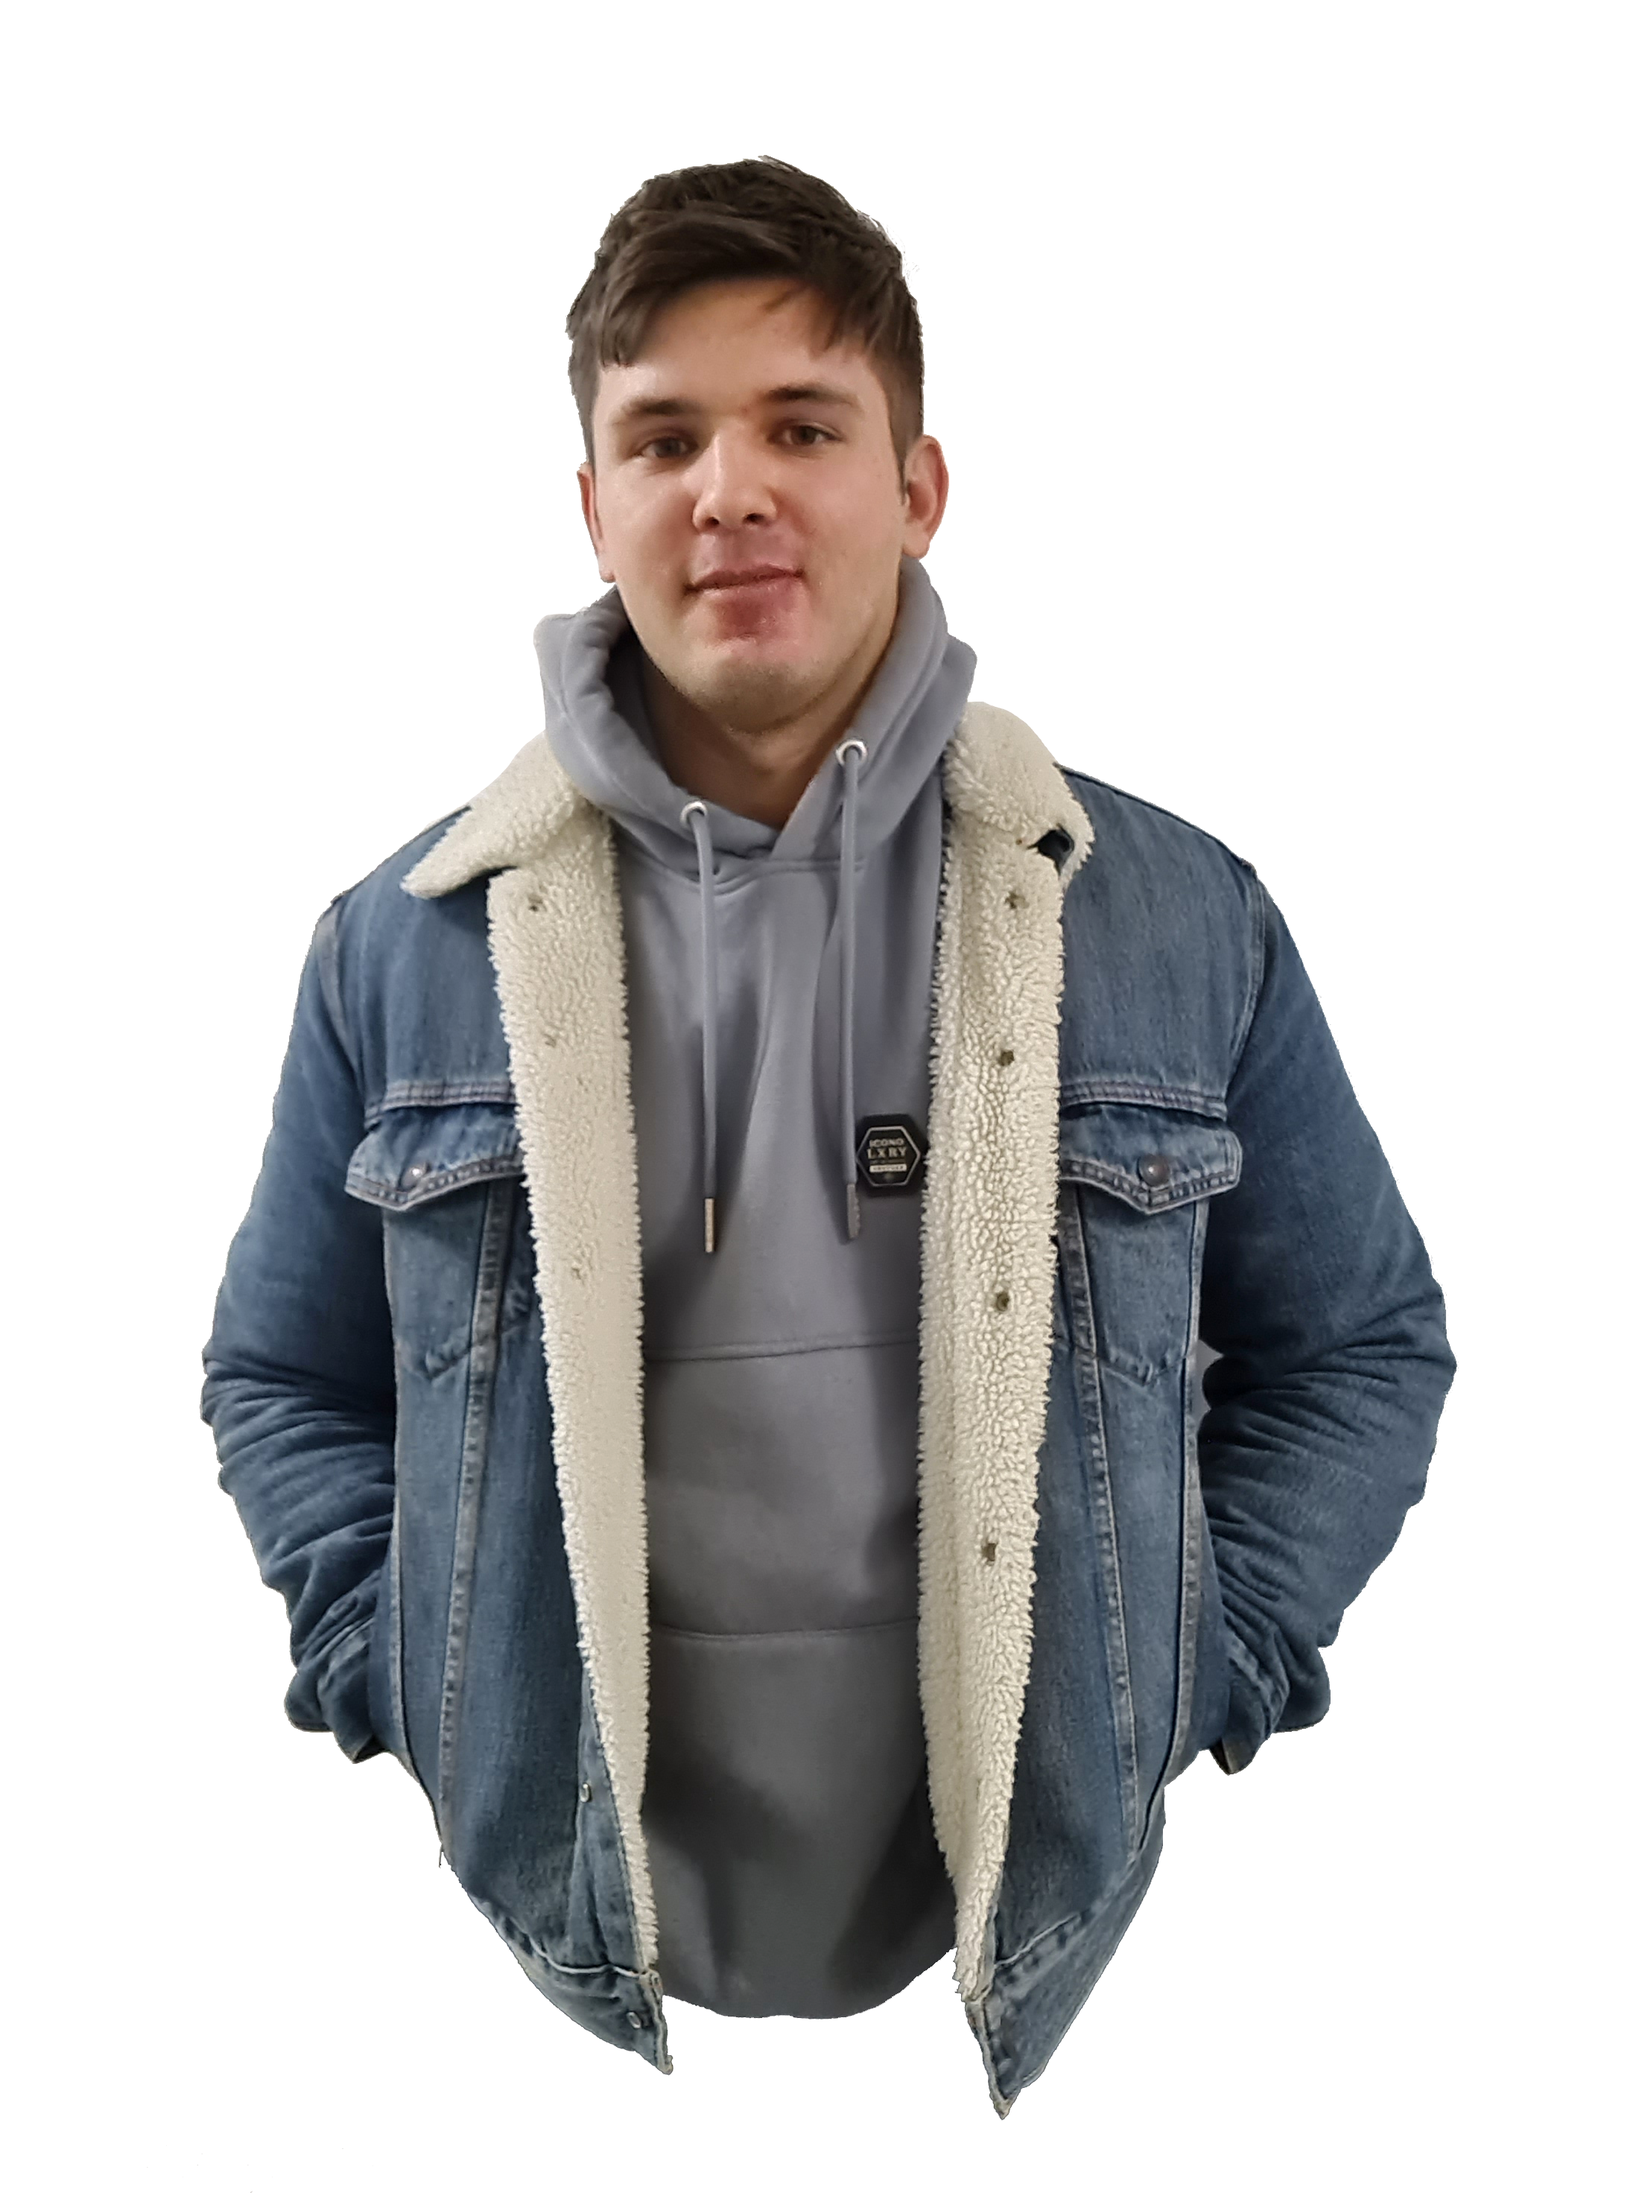
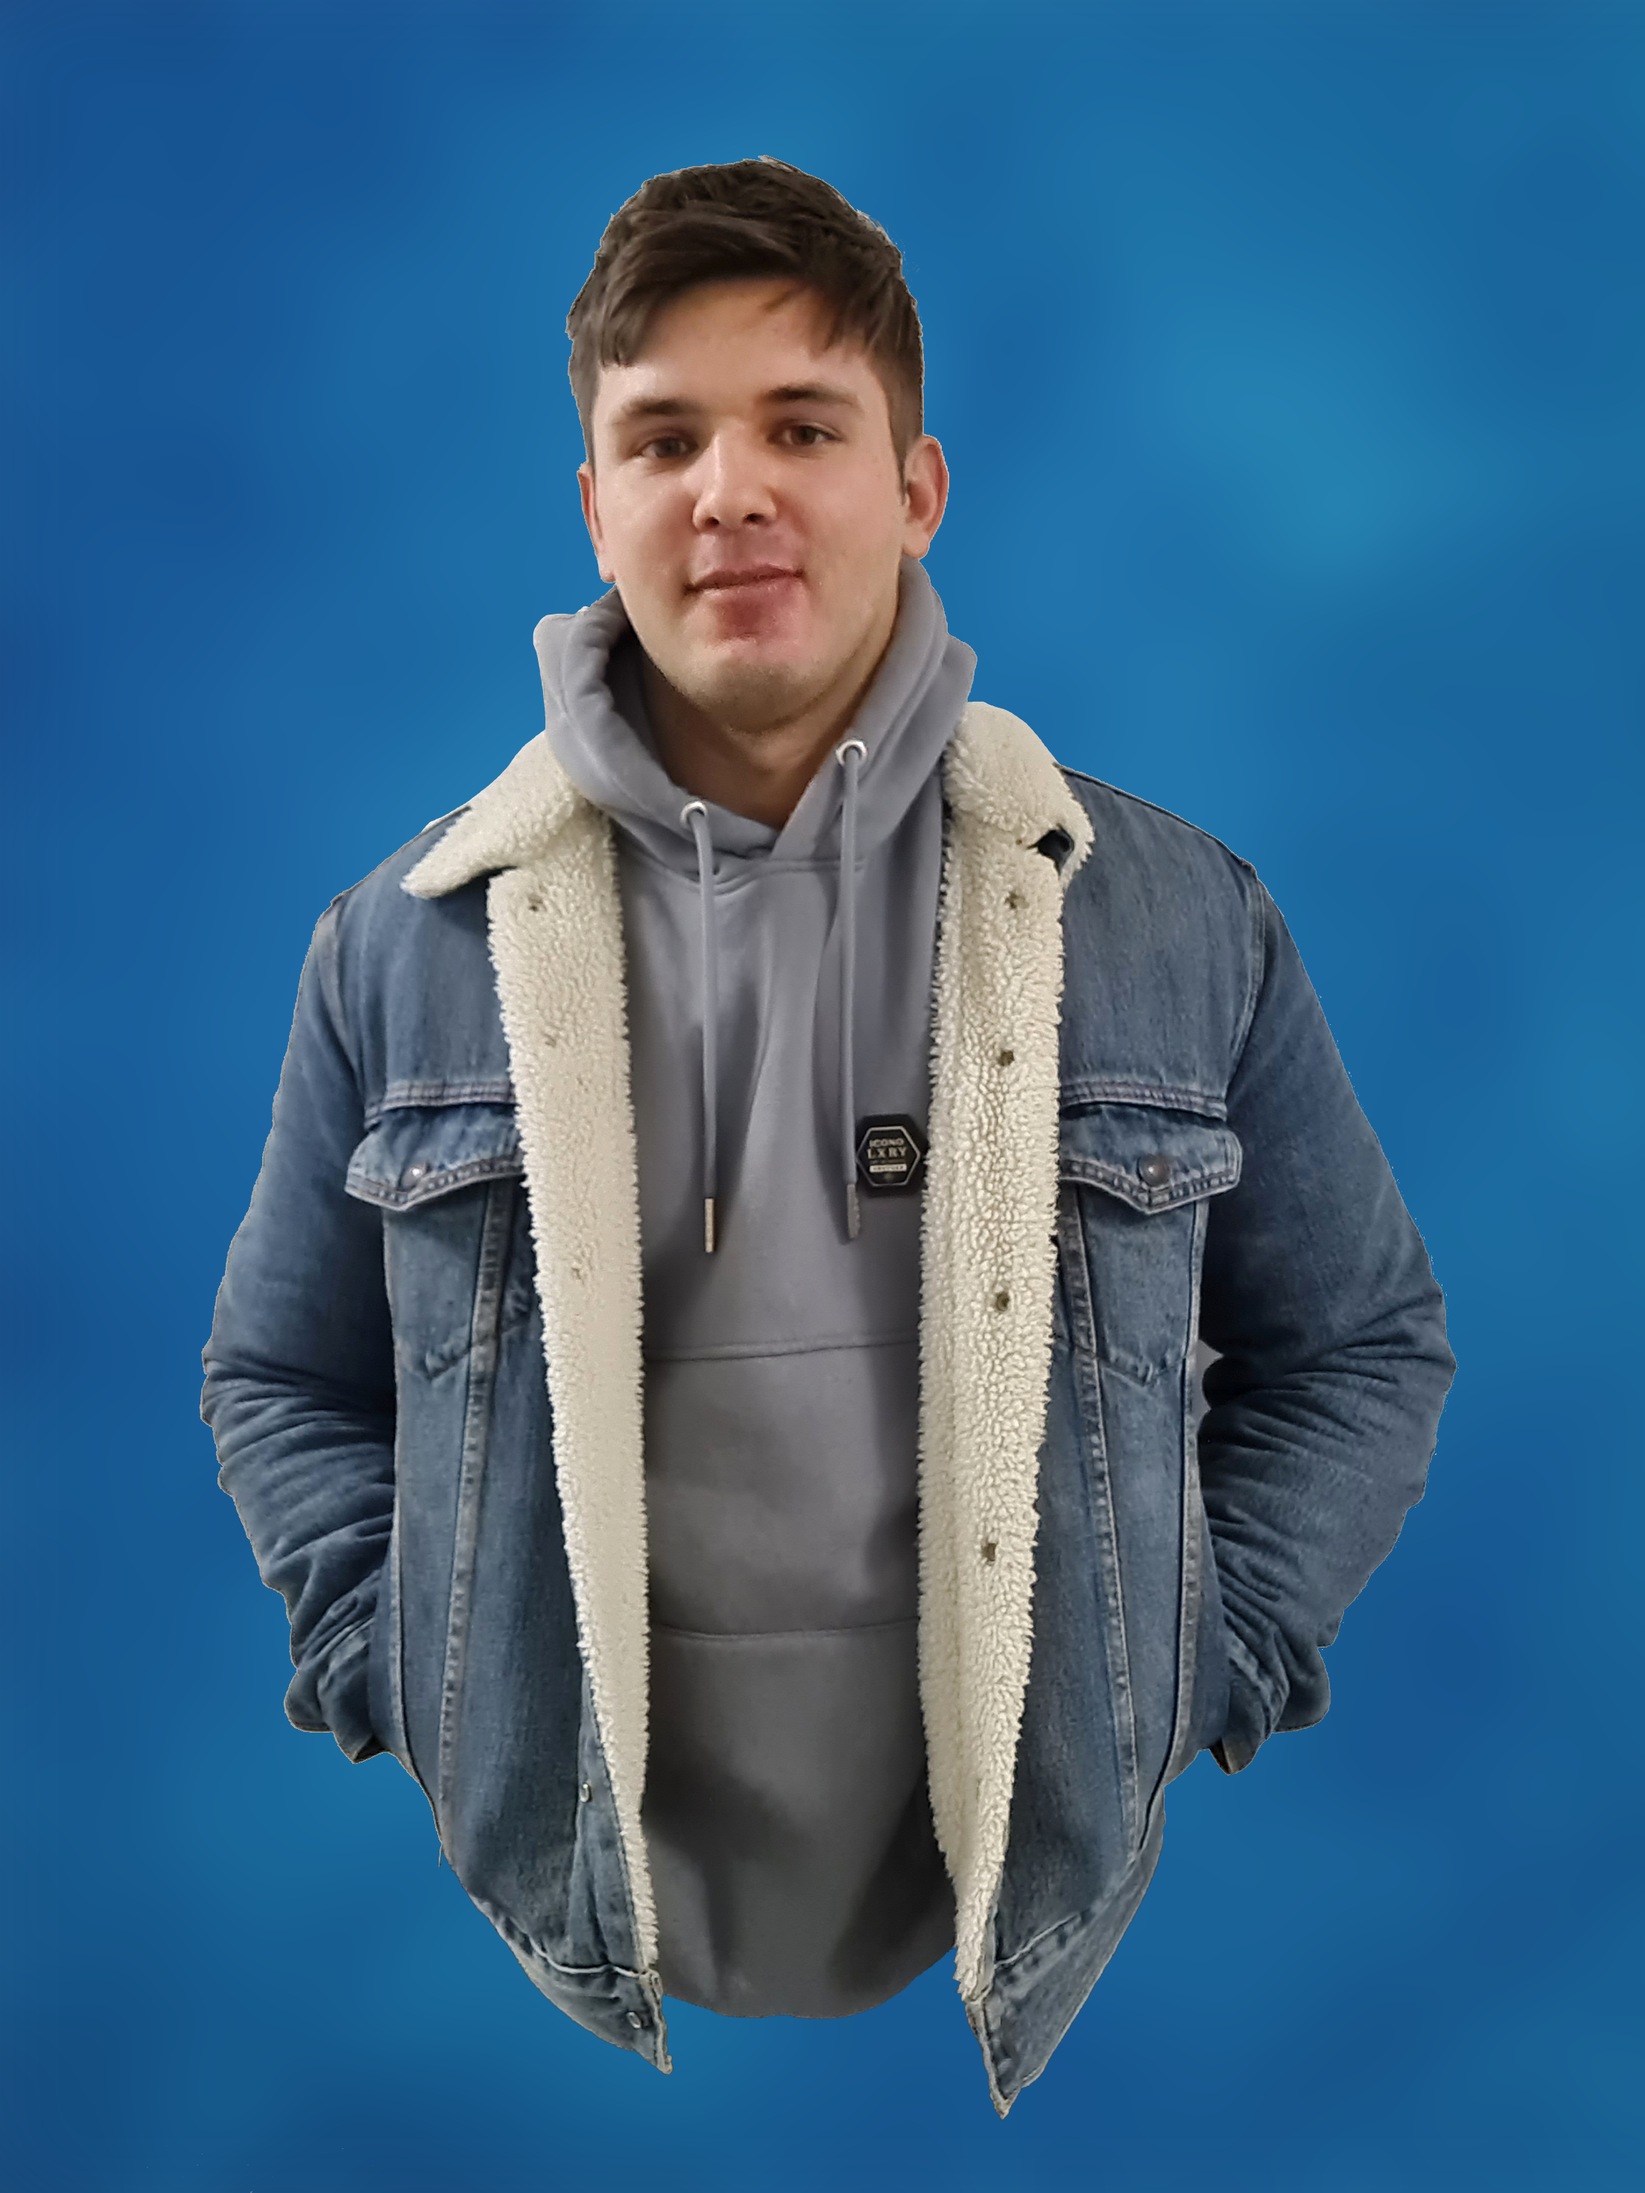
make about section

diff --git a/src/components/about/about.css b/src/components/about/about.css
@@ -1,0 +1,104 @@
+.about__container{
+    display: grid;
+    grid-template-columns: 35% 50%;
+    gap: 15%;
+}
+
+.about__me{
+    width: 100%;
+    aspect-ratio: 1/1;
+    border-radius: 2rem;
+    background: linear-gradient(45deg, transparent, var(--color-primary), transparent);
+}
+
+.about__me-img {
+    border-radius: 2rem; 
+    overflow: hidden;
+    transform: rotate(10deg);
+    transition: var(--transition);
+}
+
+.about__me-img:hover{
+    transform: rotate(0);
+}
+
+.about__cards{
+    display: grid;
+    grid-template-columns: repeat(3, 1fr);
+    gap: 1.5rem;
+}
+
+.about__card{
+    background: var(--color-bg-variant); 
+    border: 1px solid transparent;
+    border-radius: 1rem;
+    padding: 2rem;
+    text-align: center;
+    transition: var(--transition);
+}
+
+.about__card:hover{
+    background: transparent; 
+    border-color: var(--color-primary-variant);
+    cursor: default;
+}
+
+.about__icon{
+    color: var(--color-primary); 
+    font-size: 1.4rem;
+    margin-bottom: 1rem;
+}
+
+.about__card h5{
+    font-size: 0.95rem;
+}
+
+.about__card small{
+    font-size: 0.7rem;
+    color: var(--color-light)
+}
+
+.about__content p {
+    margin: 2rem 0 2.6rem;
+    color: var(--color-light) 
+}
+
+/*  =================== MEDIA QUERIES (MEDIUM DEFVICES) ===================== */
+
+@media screen and (max-width : 1024px){
+    .about__container{
+        grid-template-columns: 1fr;
+        gap: 0;
+    }
+
+    .about__me {
+        width: 50%;
+        margin: 2rem auto -4rem;
+    }
+
+    .about__content p {
+        margin: 1rem 0 1.5rem;
+    }
+}
+
+/*  =================== MEDIA QUERIES (SMALL DEFVICES) ===================== */
+
+@media screen and (max-width : 600px){
+    .about__me{
+        width: 65%;
+        margin: 0 auto 3rem;
+    }
+
+    .about__cards {
+        grid-template-columns: 1fr 1fr;
+        gap : 1rem; 
+    }
+
+    .about__content {
+        text-align: center;
+    }
+
+    .about__content p {
+        margin: 1.5rem 0;
+    }
+}

diff --git a/src/components/about/About.jsx b/src/components/about/About.jsx
@@ -1,9 +1,51 @@
 import React from 'react'
 import './about.css'
+import ME from '../../assets/me3.png'
+import { FaAward } from 'react-icons/fa'
+import { FiUsers } from 'react-icons/fi'
+import { VscFolderLibrary } from 'react-icons/vsc'
 
 const About = () => {
   return (
-    <section id='about'>About</section>
+    <section id='about'>
+      <h5>Get To Know</h5>
+      <h2>About Me</h2>
+      <div className="container about__container">
+        <div className="about__me">
+          <div className="about__me-img">
+            <img src={ME} alt="about image" />
+          </div>
+        </div>
+
+        <div className="about__content">
+          <div className="about__cards">
+            <article className='about__card'>
+              <FaAward className="about-icon" />
+              <h5>Experience</h5>
+              <small>3+ Year Working</small>
+            </article>
+            <article className='about__card'>
+              <FiUsers className="about-icon" />
+              <h5>Clients</h5>
+              <small>200+ Worldwide</small>
+            </article>
+            <article className='about__card'>
+              <VscFolderLibrary className="about-icon" />
+              <h5>Projects</h5>
+              <small>80+ Completed</small>
+            </article>
+          </div>
+
+          <p>
+            Lorem ipsum dolor sit amet consectetur adipisicing elit.
+            Maxime itaque earum, molestiae aut natus qui nihil quas iste quisquam mollitia excepturi
+            molestias accusantium incidunt perspiciatis in provident suscipit optio reiciendis.
+          </p>
+
+          <a href="#contact" className='btn btn-primary'>Let's talk</a>
+        </div>
+      </div>
+    </section>
   )
 }
 
